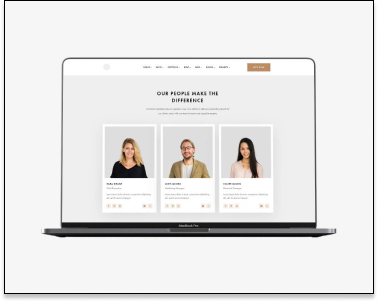
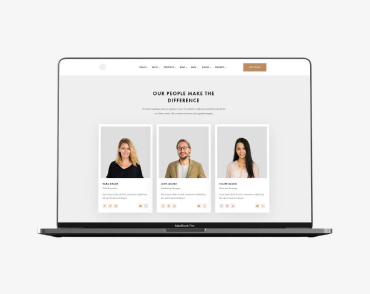
hw changes after mentor

diff --git a/css/style.css b/css/style.css
@@ -72,8 +72,8 @@ a {
 /* Задаем падингом больше зону для ховер и фокус*/
 .nav-list a {
   display: block;
-  padding-top: 31px;
-  padding-bottom: 31px;
+  padding-top: 32px;
+  padding-bottom: 32px;
 }
 
 .nav-list a {
@@ -103,6 +103,7 @@ a {
   display: block;
   padding-top: 31px;
   padding-bottom: 31px;
+  color: var(--primary-text-color);
 }
 
 .contact-us .item:not(:last-child) {
@@ -116,7 +117,7 @@ a {
   font-size: 14px;
   line-height: 1.2;
   letter-spacing: 0.02em;
-  color: var(--title-text-color);
+  color: var(--primary-text-color);
 }
 .contact-us a:hover,
 .contact-us a:focus {
@@ -124,6 +125,14 @@ a {
 }
 
 .section-hero {
+  margin-bottom: 94px;
+  padding: 200px;
+
+  background-color: var(--bg-color);
+}
+
+.hero-title {
+  color: var(--primary-bg-color);
   font-family: Roboto;
   font-style: normal;
   font-weight: 900;
@@ -131,13 +140,6 @@ a {
   line-height: 1.2;
   letter-spacing: 0.06em;
   text-transform: uppercase;
-  background-color: var(--bg-color);
-  color: var(--primary-bg-color);
-  margin-bottom: 94px;
-  padding: 200px;
-}
-
-.hero-title {
   text-align: center;
   margin-top: 0;
   margin-bottom: 30px;
@@ -147,6 +149,8 @@ a {
   font-family: Roboto;
   font-style: normal;
   font-weight: bold;
+  width: 200px;
+  height: 50px;
   font-size: 16px;
   line-height: 1.2;
   background-color: var(--accent-color);
@@ -155,7 +159,8 @@ a {
   margin-top: 0;
   margin-left: auto;
   margin-right: auto;
-  box-shadow: 0px 4px 4px rgba(0, 0, 0, 0.15);
+  /*box-shadow: 0px 4px 4px rgba(0, 0, 0, 0.15);*/
+  border-style: solid;
   border-radius: 4px;
   border-color: var(--accent-color);
 }
@@ -307,6 +312,22 @@ footer {
   background-color: var(--bg-color);
 }
 
+.logo-footer {
+  font-family: Raleway;
+  font-style: normal;
+  font-weight: bold;
+  font-size: 26px;
+  line-height: 1.2;
+  letter-spacing: 0.03em;
+  color: #2196f3;
+}
+
+.logo-footer span {
+  display: inline-block;
+  color: #ffffff;
+  margin-bottom: 20px;
+}
+
 footer img {
   margin-bottom: 20px;
 }
@@ -342,6 +363,7 @@ footer img {
   line-height: 1.2;
   letter-spacing: 0.03em;
   color: rgba(255, 255, 255, 0.6);
+  margin-top: 9px;
 }
 
 /* страница пртфолио */
@@ -350,6 +372,7 @@ footer img {
   display: flex;
   justify-content: center;
   margin-bottom: 34px;
+  margin-top: 94px;
 }
 
 .portfolio-list {

diff --git a/index.html b/index.html
@@ -108,20 +108,20 @@
     </main>
     <footer>
         <div class="container footer">
-        <a href="#"> <img src="./images/WebStudio.svg" alt="logo"></a>
-        <address class="address">
-            <ul class="address-list">
-                <li>
-                    <a class="address-office" href="#">г. Киев, пр-т Леси Украинки, 26</a>
-                </li>
-                <li>
-                    <a class="address-mail" href="mailto:info@example.com">info@example.com</a>
-                </li>
-                <li>
-                    <a class="address-phone" href="callto:+380961111111">+38 096 111 11 11</a>
-                </li>
-            </ul>
-        </address>
+            <a class="logo-footer" href="#"> Web <span> Studio </span></a>
+            <address class="address">
+                <ul class="address-list">
+                    <li>
+                        <a class="address-office" href="#">г. Киев, пр-т Леси Украинки, 26</a>
+                    </li>
+                    <li>
+                        <a class="address-mail" href="mailto:info@example.com">info@example.com</a>
+                    </li>
+                    <li>
+                        <a class="address-phone" href="callto:+380961111111">+38 096 111 11 11</a>
+                    </li>
+                </ul>
+            </address>
         </div>
     </footer>
 </body>

diff --git a/portfolio.html b/portfolio.html
@@ -7,6 +7,7 @@
     <title>goit-murkup-tw-03</title>
     <link rel="preconnect" href="https://fonts.gstatic.com">
     <link href="https://fonts.googleapis.com/css2?family=Roboto:wght@400;500;700&display=swap" rel="stylesheet">
+    <link href="https://fonts.googleapis.com/css2?family=Raleway:wght@700&display=swap" rel="stylesheet">
     <link rel="stylesheet" href="https://cdnjs.cloudflare.com/ajax/libs/modern-normalize/1.0.0/modern-normalize.min.css"
         integrity="sha512-ISS7cAi1PEhQ8jnbJpJZMd29NlhNj4AWYyLOSp2CE/CsHxTCu+r+t0D2yoJudVrd0/8fTVPUVDzY5Tvli75u/g=="
         crossorigin="anonymous" />
@@ -114,7 +115,7 @@
     </main>
     <footer>
         <div class="container footer">
-            <a href="#"> <img src="./images/WebStudio.svg" alt="logo"></a>
+                   <a class="logo-footer" href="#"> Web <span> Studio </span></a>
             <address class="address">
                 <ul class="address-list">
                     <li>
